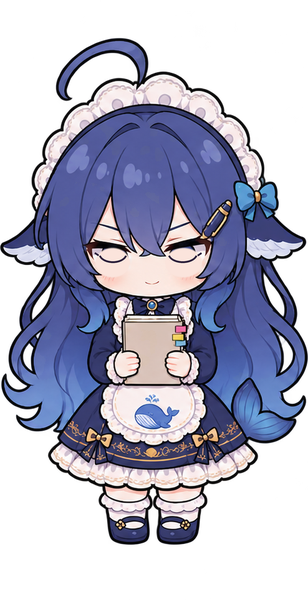
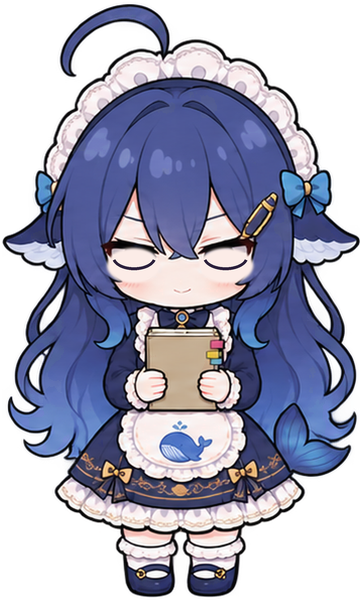
点小本本先翻本子：用 Kapozux 画的 6 帧（切图、统一 360×600、脚底对齐），翻 2→5 帧、记录没读完就一直翻，停在第 6 帧「看到了」再弹气泡，代替「想想」气泡；平时站姿换成第 1 帧、闭眼帧在它上面重做。顺带撤回误带进上一个提交的提速改动（打字速度、句间停顿、思考时间）

diff --git a/src/shared/pet-engine.js b/src/shared/pet-engine.js
@@ -30,7 +30,7 @@ const REPLY = LINES
 const G = 2600            // 重力 px/s²
 const BOUNCE = 0.5        // 撞墙 / 落地留下的速度
 const FRICTION = 0.86     // 落地后横向每次弹跳的摩擦
-const TYPE_MS = 16        // 打字机每个字
+const TYPE_MS = 32        // 打字机每个字
 const pick = arr => arr[Math.floor(Math.random() * arr.length)]
 const shuffle = arr => arr.map(x => [Math.random(), x]).sort((a, b) => a[0] - b[0]).map(x => x[1])
 const clamp = (v, lo, hi) => Math.max(lo, Math.min(hi, v))
@@ -54,7 +54,7 @@ export const EXPR = {
   idle: 'normal', work: 'thinking', file: 'thinking', yawn: 'sleepy', startle: 'surprised', drag: 'surprised',
   caught: 'shy', bow: 'shy', sigh: 'sad', cheer: 'happy', eat: 'happy', poke: 'happy',
 }
-export const FIGURES = ['normal', 'blink', 'happy', 'sad', 'surprised', 'sleepy', 'shy', 'thinking']
+export const FIGURES = ['normal', 'blink', 'happy', 'sad', 'surprised', 'sleepy', 'shy', 'thinking', 'flip-1', 'flip-2', 'flip-3', 'flip-4', 'flip-5', 'flip-6']
 
 const CSS = `
 .fy-root { position: absolute; inset: 0; pointer-events: none; overflow: hidden; font-family: "XBB Rounded", -apple-system, "PingFang SC", "Hiragino Sans GB", "Microsoft YaHei", sans-serif; }
@@ -215,6 +215,24 @@ export function createPet(host, opts) {
   }
   ready.then(() => { show(expr); blink() })
 
+  // 翻本子：点了之后先翻（2→3→4→5，记录没读完就在 4、5 之间来回翻），翻到了停在第 6 帧「看到了」
+  let flipTimer = 0
+  const hasFlip = () => !!(srcs['flip-2'] && srcs['flip-6'])
+  function flipStart() {
+    if (!hasFlip()) return false
+    clearTimeout(flipTimer); clearTimeout(exprTimer)
+    float.className = 'fy-float'; mark.textContent = ''
+    expr = 'flip'
+    const seq = ['flip-2', 'flip-3', 'flip-4', 'flip-5']
+    let i = 0
+    const tick = () => { show(seq[i]); i = i < seq.length - 1 ? i + 1 : 2; flipTimer = setTimeout(tick, 150) }
+    tick()
+    return true
+  }
+  /** 停在第 6 帧（抬头、嘴巴微张），ms 后交给台词的表情 */
+  function flipFound() { clearTimeout(flipTimer); if (expr === 'flip') show('flip-6') }
+  function flipStop() { clearTimeout(flipTimer); if (expr === 'flip') setExpr('normal') }
+
   // ---------- 物理 ----------
   const W = () => host.clientWidth, H = () => host.clientHeight
   const p0 = opts.prefs.get()
@@ -281,7 +299,7 @@ export function createPet(host, opts) {
     if (!(e.buttons & 1)) return endDrag(e, true)        // 松手事件丢了：别让它跟着鼠标跑
     const dx = e.clientX - d.sx, dy = e.clientY - d.sy
     if (!d.moved && Math.hypot(dx, dy) < 6) return
-    if (!d.moved) { d.moved = true; pet.classList.add('drag'); hideBubble(); thinking = null; closeMenu(); playAnim('drag') }
+    if (!d.moved) { d.moved = true; pet.classList.add('drag'); hideBubble(); thinking = null; flipStop(); closeMenu(); playAnim('drag') }
     d.hist.push([e.clientX, e.clientY, performance.now()]); if (d.hist.length > 8) d.hist.shift()
     const [ax, , at] = d.hist[0]
     const v = (e.clientX - ax) / Math.max(1, performance.now() - at) * 1000
@@ -348,7 +366,8 @@ export function createPet(host, opts) {
     textEl.innerHTML = ''
     positionBubble()
     const t = talk = { i: 0, typed: '', full: false, timer: 0 }
-    if (line.anim) playAnim(line.anim)
+    if (expr === 'flip') exprTimer = setTimeout(() => playAnim(line.anim || 'idle'), 900)   // 第 6 帧「看到了」先停一下
+    else if (line.anim) playAnim(line.anim)
     const paintTo = (s) => { textEl.innerHTML = parts.slice(0, t.i).map((p, k) => html(k, p)).join('') + html(t.i, s); positionBubble() }
     function startBeat() {
       if (talk !== t) return
@@ -369,7 +388,7 @@ export function createPet(host, opts) {
       t.full = true
       const isLast = t.i === parts.length - 1
       if (isLast && line.react) addReactions(b, line.react)
-      const read = Math.max(isLast ? (line.react ? 9000 : 3500) : 350, [...parts[t.i]].length * (isLast ? 110 : 25))
+      const read = Math.max(isLast ? (line.react ? 9000 : 3500) : 700, [...parts[t.i]].length * (isLast ? 110 : 40))
       t.timer = setTimeout(() => { if (isLast) { hideBubble(); idle() } else { t.i++; startBeat() } }, read)
     }
     // 鼠标停在气泡上就别收（在犹豫点哪个反应）
@@ -443,14 +462,16 @@ export function createPet(host, opts) {
     // 蹦一下，开始想
     vy = -620; vx = 0; squash(1.12, 0.86, 90); kick()
     const me = thinking = { nags: 0 }
-    thinkBubble(pick(REPLY.think))
-    setExpr('thinking')
-    const wait = new Promise(r => setTimeout(r, 250 + Math.random() * 200))
+    hideBubble()
+    const flipping = flipStart()                  // 有翻本子的帧就翻本子，不弹「想想」气泡
+    if (!flipping) { thinkBubble(pick(REPLY.think)); setExpr('thinking') }
+    const wait = new Promise(r => setTimeout(r, flipping ? 620 : 700 + Math.random() * 600))   // 至少翻完一遍
     const d = data || await load()
     await wait
     if (thinking !== me) return
     thinking = null
-    if (!d) return say({ text: '本肥鱼脑子卡住了，想不起来……（读记录失败了）', anim: 'sigh' })
+    if (flipping) { flipFound(); await new Promise(r => setTimeout(r, 380)) }   // 「看到了」，停一下再开口
+    if (!d) { flipStop(); return say({ text: '本肥鱼脑子卡住了，想不起来……（读记录失败了）', anim: 'sigh' }) }
     const pr = opts.prefs.get()
     const f = MODES.find(m => m[0] === pr.mode)?.[2] || (() => true)
     const qk = (pr.mode || 'all') + (pr.priv === false ? 0 : 1)
@@ -514,7 +535,7 @@ export function createPet(host, opts) {
   return {
     say, poke,
     destroy() {
-      cancelAnimationFrame(raf); clearTimeout(blinkTimer); clearTimeout(exprTimer); hideBubble(); closeMenu(); win.removeEventListener('resize', onResize); doc.removeEventListener('pointerdown', onDocDown, true); root.remove()
+      cancelAnimationFrame(raf); clearTimeout(blinkTimer); clearTimeout(exprTimer); clearTimeout(flipTimer); hideBubble(); closeMenu(); win.removeEventListener('resize', onResize); doc.removeEventListener('pointerdown', onDocDown, true); root.remove()
     },
   }
 }

diff --git a/desktop/index.html b/desktop/index.html
@@ -12,7 +12,7 @@ const prefs = {
 const seen = new Map()
 const load = () => fetch('moments.json', { cache: 'no-store' }).then(r => r.ok ? r.json() : null).then(d => d?.moments ? d : null).catch(e => { console.error('读台词失败', e); return null })
 const engine = createPet(document.getElementById('host'), {
-  size: 300, aspect: 308 / 600, prefs,
+  size: 300, aspect: 360 / 600, prefs,
   fontSrc: 'assets/fonts/xbb-rounded.woff2',
   figureSrc: k => { if (!seen.has(k)) seen.set(k, fetch('assets/xiaobenben/' + k + '.png', { method: 'HEAD' }).then(r => r.ok ? 'assets/xiaobenben/' + k + '.png' : null).catch(() => null)); return seen.get(k) },
   loadMoments: load,

diff --git a/src/client/Pet.jsx b/src/client/Pet.jsx
@@ -38,7 +38,7 @@ export function Pet() {
     const syncDesktop = d => { host.style.display = d?.desktop?.on ? 'none' : '' }
     engine = createPet(host, {
       size: 300,
-      aspect: 308 / 600,
+      aspect: 360 / 600,
       prefs,
       figureSrc,
       fontSrc: asset('fonts/xbb-rounded.woff2'),

diff --git a/assets/xiaobenben/CREDITS.md b/assets/xiaobenben/CREDITS.md
@@ -3,7 +3,9 @@
 | 文件 | 内容 | 作者 |
 |---|---|---|
 | `turnaround.png` | 三视图原画（正面 / 侧面 / 背面，透明背景） | Kapozux，用 ChatGPT 的图像生成绘制 |
-| `normal.png` | 从三视图里裁出的正面，缩到 600px 高 | 同上（裁切、缩放：本插件） |
+| `flip-sheet.png` | 翻本子的 6 帧原画（一张横排） | 同上 |
+| `flip-1.png` … `flip-6.png` | 从 `flip-sheet.png` 切出的单帧，统一成 360×600、按脚底对齐 | 同上（切图、对齐：本插件） |
+| `normal.png` | 平时站着的样子，就是 `flip-1.png` | 同上 |
 | `blink.png` | 闭眼帧：在 `normal.png` 的眼睛位置改画成闭眼 | 同上（改画：本插件） |
 
 本文件夹里的图片按 **CC BY-NC-SA 4.0**（署名—非商业性使用—相同方式共享）授权，全文见同目录 `LICENSE`，
@@ -15,5 +17,5 @@
 
 ## 想加表情图？
 
-同目录放这些名字的透明 PNG（和 `normal.png` 同尺寸）就会自动换上，缺哪张就用 `normal.png` 加代码画的漫画符号：
+同目录放这些名字的透明 PNG（和 `normal.png` 同尺寸 360×600、脚底贴着下边、左右居中）就会自动换上，缺哪张就用 `normal.png` 加代码画的漫画符号：
 `happy.png` `sad.png` `surprised.png` `sleepy.png` `shy.png` `thinking.png`。
